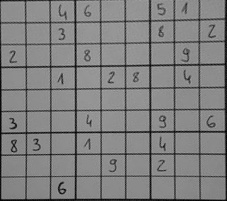
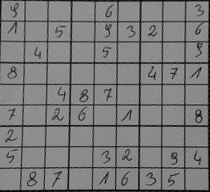
bw image

Changed region(s): [[0.0, 0.0, 1.0, 1.0], [0.8571, 0.6875, 0.8857, 0.75], [0.9714, 0.7188, 1.0, 0.75]]

diff --git a/michal.py b/michal.py
@@ -5,6 +5,7 @@ import tensorflow as tf
 import matplotlib.pyplot as plt
 SIZE = (28, 28)
 
+
 def show(img):
     cv2.imshow("image", img)
     cv2.waitKey(0)
@@ -13,6 +14,7 @@ def show(img):
 def extract(path):
     base_img = cv2.imread(path, 0)
     threshold, img = cv2.threshold(base_img, 128, 255, cv2.THRESH_BINARY | cv2.THRESH_OTSU)
+    img_bw = img
     img = 255 - img
 
     show(img)
@@ -56,7 +58,7 @@ def extract(path):
             img = morphology.dilation(img)
         img = cv2.resize(img, SIZE)
         img = 255 - img
-        img = ((img/255) ** 5) * 255
+        # img = ((img/255) ** 5) * 255
         print(img)
         plt.imshow(img, cmap=plt.cm.binary)
         plt.show()
@@ -70,9 +72,9 @@ def extract(path):
     for i, r in enumerate(rects):
         x, y, w, h = r
 
-        new_img = base_img[y:y + h, x:x + w]
-        show(new_img)
-        new_img = dilate_and_resize(new_img, steps=0)
+        chunk = img_bw[y: y + h, x:x + w]
+        show(chunk)
+        new_img = dilate_and_resize(chunk, steps=0)
         data = np.array([new_img]).astype('float32')
         prediction = model.predict(data)
         print(np.argmax(prediction))

diff --git a/dominik.py b/dominik.py
@@ -124,4 +124,4 @@ def pers_transform(img):
     cv2.waitKey(0)
 
 
-pers_transform('data/sud2.jpg')
+pers_transform('data/sud3.jpg')
